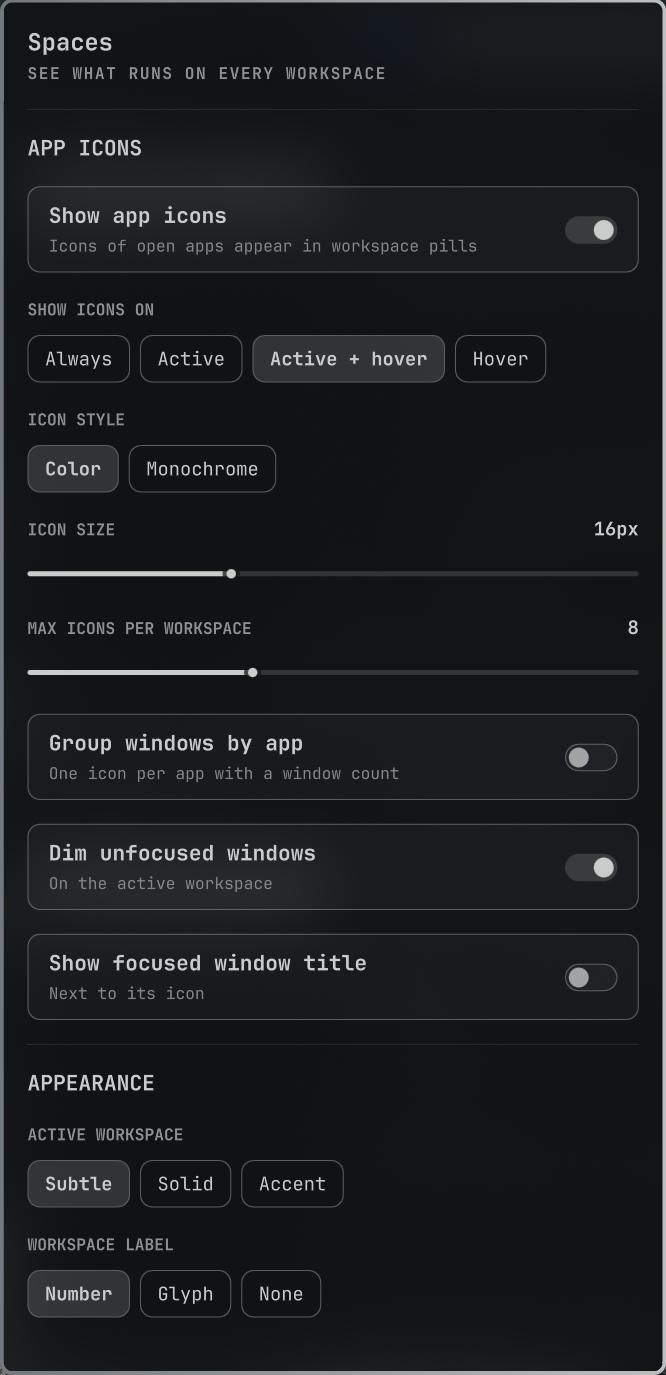
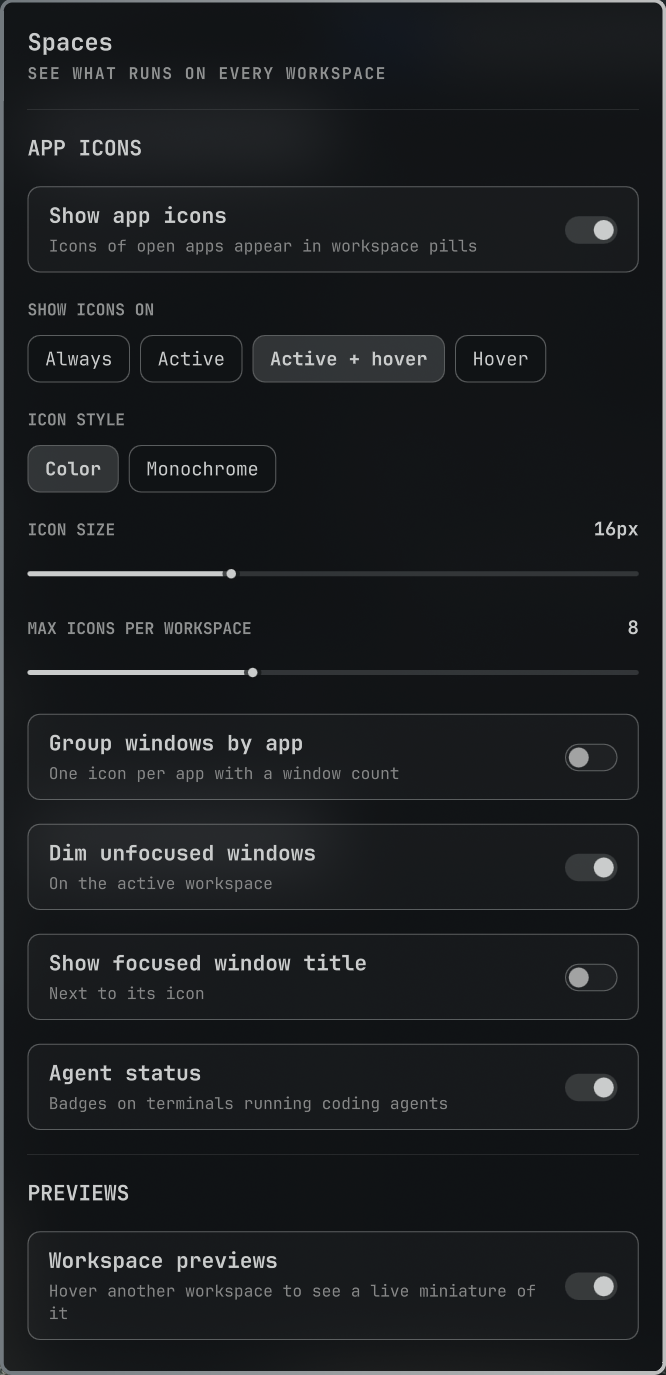
docs: refresh settings screenshot, note tested bar edges

diff --git a/README.md b/README.md
@@ -53,7 +53,7 @@ Requirements:
 - `jq` for the agent hook (installed with Omarchy)
 - Claude Code, only for agent status
 
-Tested with a top bar on a single monitor.
+Works with the bar on any edge of the screen. Tested on a single monitor.
 
 To update, then load the new code:
 
